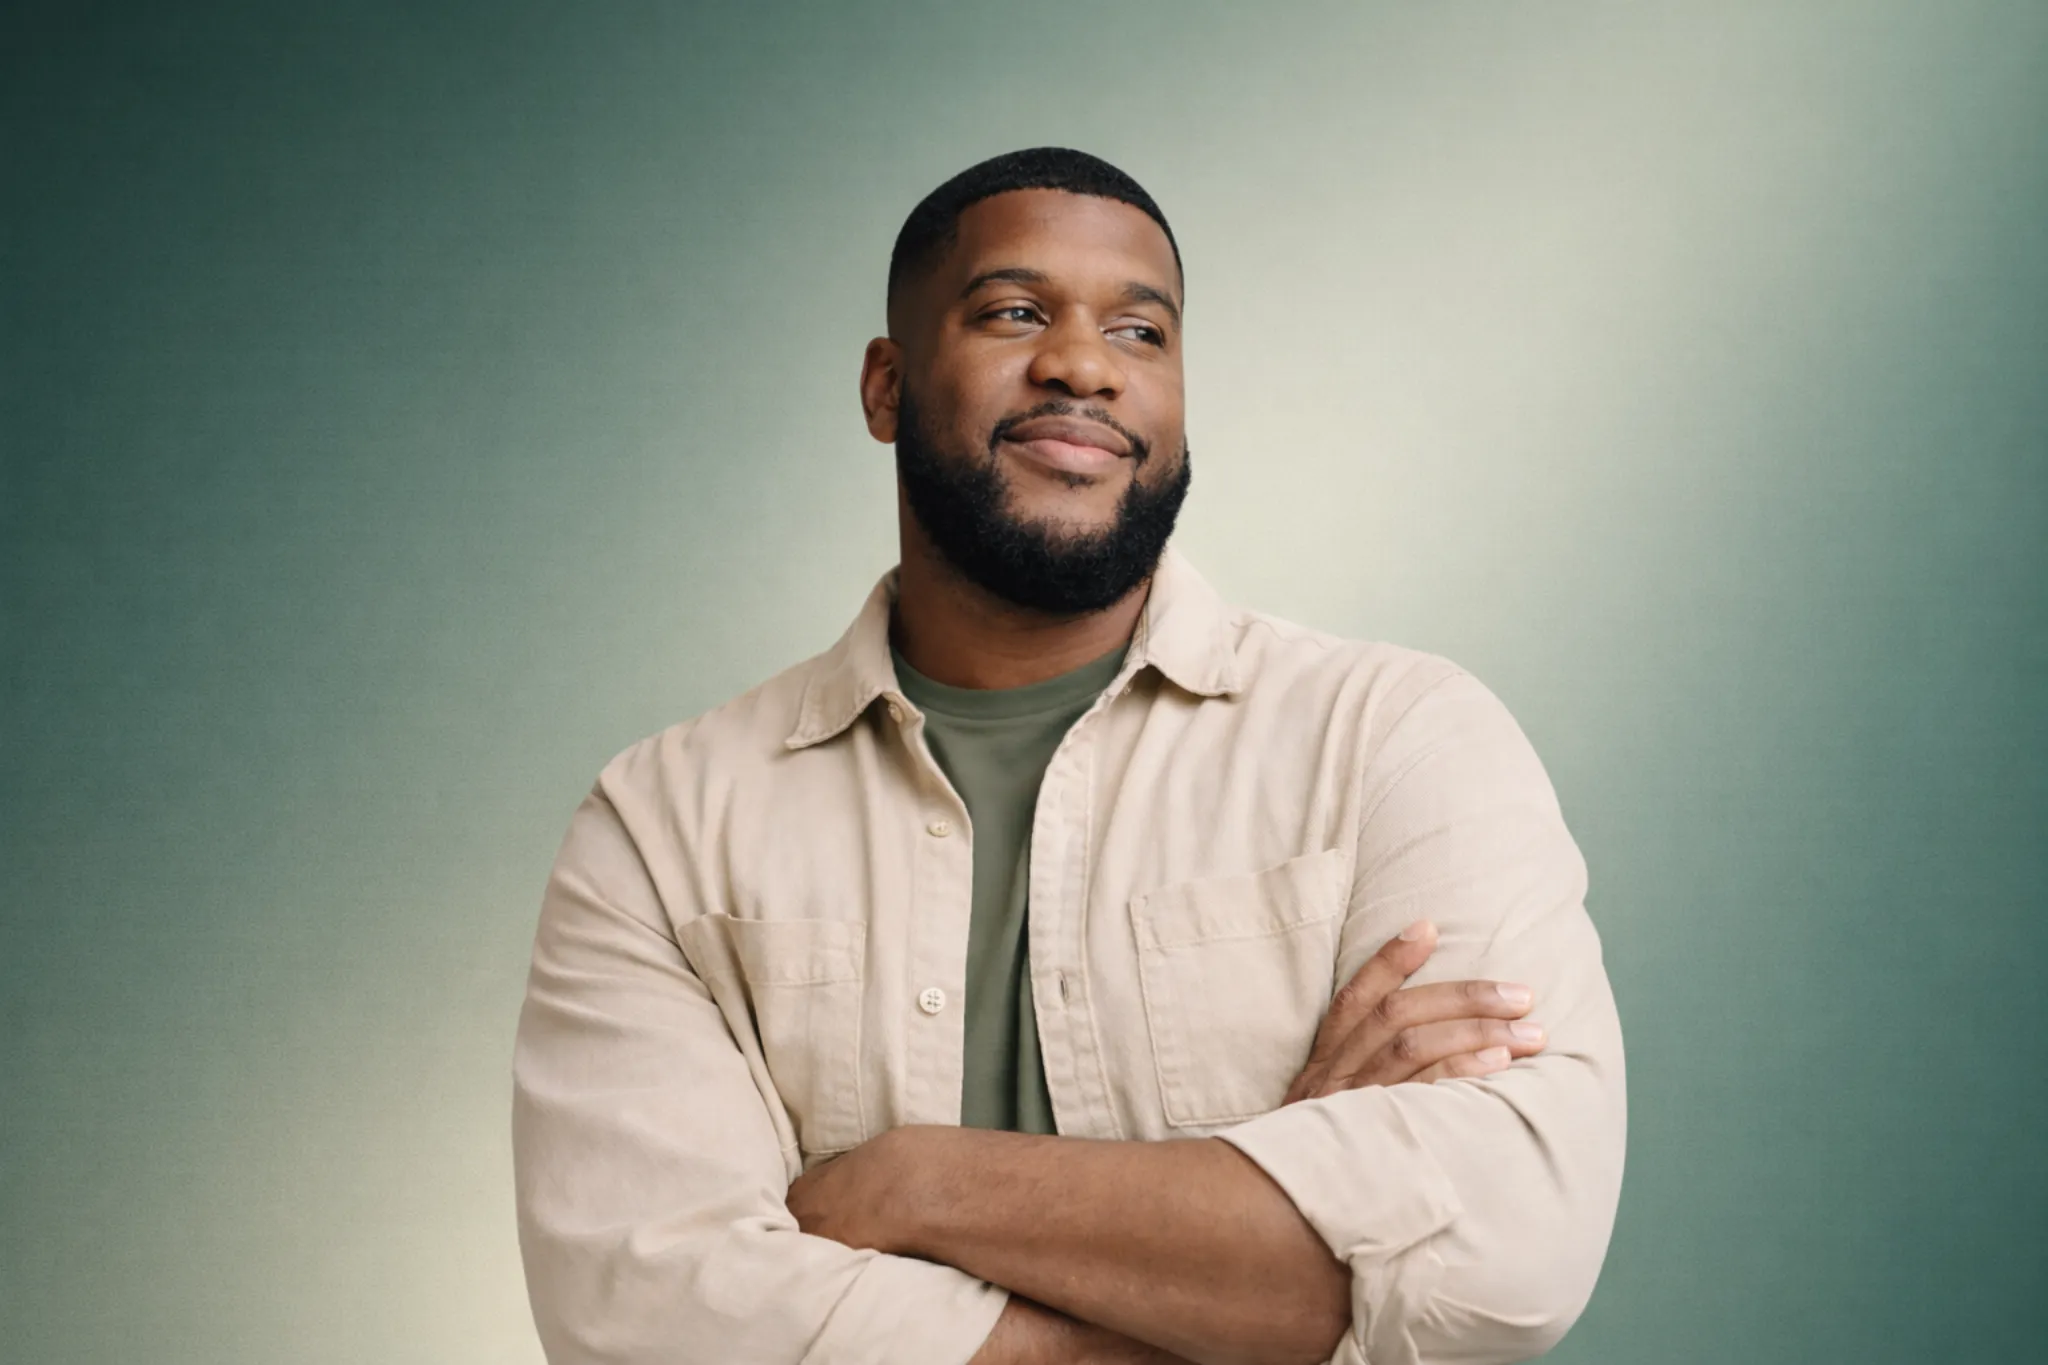
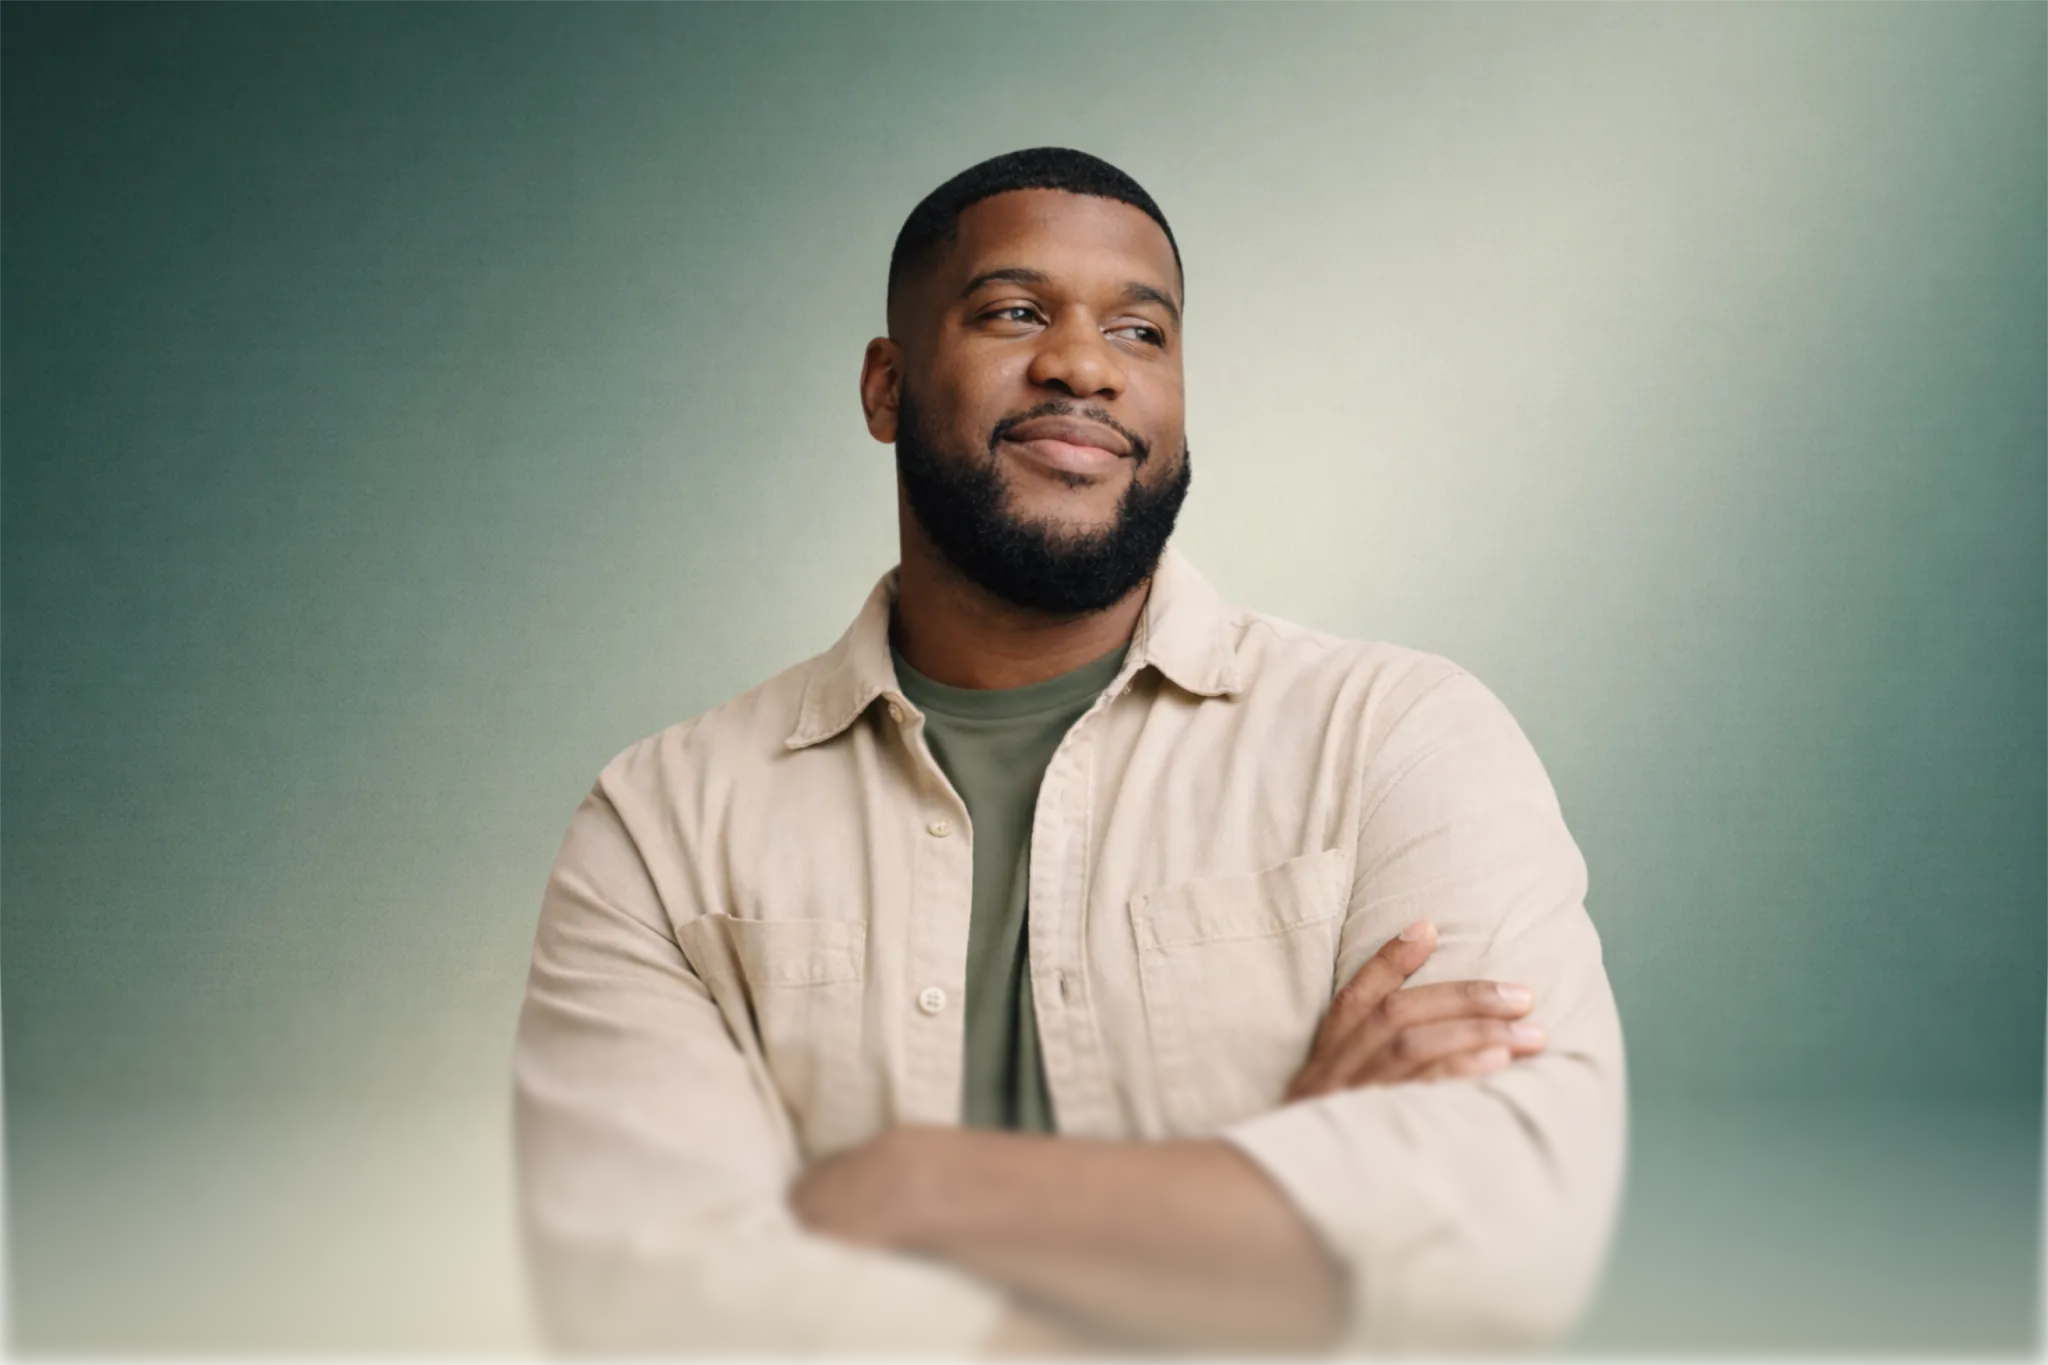
Soft footer updation

Changed region(s): [[0.0, 0.7692, 1.0, 1.0], [0.6562, 0.7692, 0.6875, 0.8], [0.625, 0.8, 0.6562, 0.8308]]

diff --git a/src/components/sections/SoftFooterHero/SoftFooterHero.jsx b/src/components/sections/SoftFooterHero/SoftFooterHero.jsx
@@ -17,9 +17,11 @@ const SoftFooterHero = () => {
         <div className="soft-footer__content">
           <div className="soft-footer__top-text">
             <h2 className="soft-footer__heading-top">This time</h2>
-            <h2 className="soft-footer__heading-bottom">you have Healix</h2>
           </div>
-          <button className="soft-footer__btn" aria-disabled="true">Start your weight loss journey</button>
+          <div className="soft-footer__cta-group">
+            <h2 className="soft-footer__heading-bottom">you have Healix</h2>
+            <button className="soft-footer__btn" aria-disabled="true">Start your weight loss journey</button>
+          </div>
         </div>
       </div>
     </section>

diff --git a/src/components/sections/MemSoftFooter/MemSoftFooter.jsx b/src/components/sections/MemSoftFooter/MemSoftFooter.jsx
@@ -12,9 +12,11 @@ const MemSoftFooter = () => {
         <div className="mem-sf__content">
           <div className="mem-sf__top-text">
             <h2 className="mem-sf__heading-top">This time</h2>
-            <h2 className="mem-sf__heading-bottom">you have Healix</h2>
           </div>
-          <button className="mem-sf__btn" aria-disabled="true">Start your weight loss journey</button>
+          <div className="mem-sf__cta-group">
+            <h2 className="mem-sf__heading-bottom">you have Healix</h2>
+            <button className="mem-sf__btn" aria-disabled="true">Start your weight loss journey</button>
+          </div>
         </div>
       </div>
     </section>

diff --git a/src/components/sections/MemSoftFooter/MemSoftFooter.scss b/src/components/sections/MemSoftFooter/MemSoftFooter.scss
@@ -70,6 +70,16 @@
   text-align: center;
 }
 
+// "you have Healix" + CTA grouped as the main heading block,
+// separated from the top heading via the content's space-between.
+.mem-sf__cta-group {
+  display: flex;
+  flex-direction: column;
+  align-items: center;
+  gap: $spacing-md;
+  text-align: center;
+}
+
 .mem-sf__heading-top {
   font-family: $font-primary;
   font-size: clamp(28px, 5vw, 56px);
@@ -84,7 +94,7 @@
   font-family: $font-primary;
   font-size: clamp(28px, 5vw, 56px);
   font-weight: $font-weight-bold;
-  color: #1A362D;
+  color: #f7f5f0;
   line-height: 1.15;
   margin: 0;
   letter-spacing: -0.02em;

diff --git a/src/components/layout/Footer/Footer.scss b/src/components/layout/Footer/Footer.scss
@@ -530,6 +530,22 @@ $footer-tile-h: clamp(54px, 5.4vw, 68px);
   margin-top: 40px;
   text-align: center;
 
+  // Cancel `.footer__inner`'s horizontal padding so the oversized
+  // wordmark can span the full inner width without getting clipped.
+  // Mirrors the breakpoints used on the parent.
+  margin-left: -$spacing-xl;
+  margin-right: -$spacing-xl;
+
+  @include tablet-up {
+    margin-left: -$spacing-2xl;
+    margin-right: -$spacing-2xl;
+  }
+
+  @media (min-width: 1300px) {
+    margin-left: -90px;
+    margin-right: -90px;
+  }
+
   @media (max-width: 599px) {
     margin-top: 24px;
   }

diff --git a/src/components/sections/SoftFooterHero/SoftFooterHero.scss b/src/components/sections/SoftFooterHero/SoftFooterHero.scss
@@ -70,6 +70,16 @@
   text-align: center;
 }
 
+// "you have Healix" + CTA grouped as the main heading block,
+// separated from the top heading via the content's space-between.
+.soft-footer__cta-group {
+  display: flex;
+  flex-direction: column;
+  align-items: center;
+  gap: $spacing-md;
+  text-align: center;
+}
+
 .soft-footer__heading-top {
   font-family: $font-primary;
   font-size: clamp(28px, 5vw, 56px);
